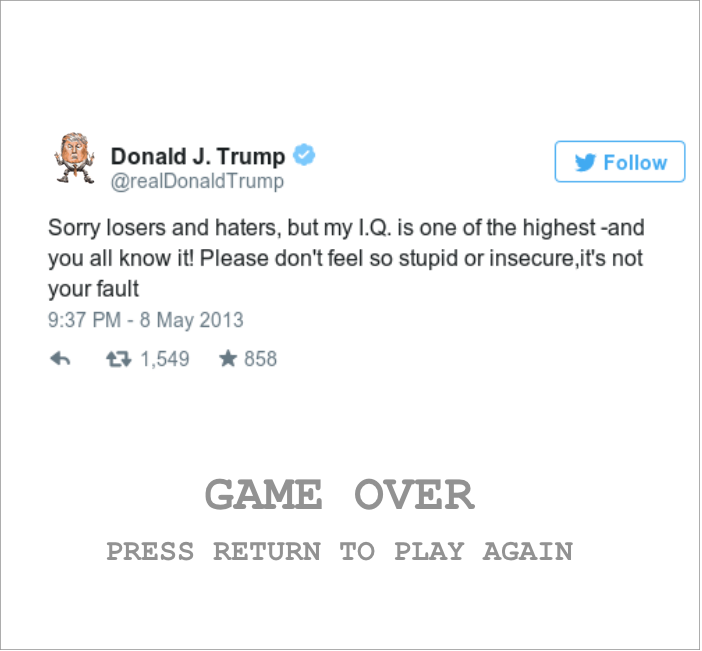
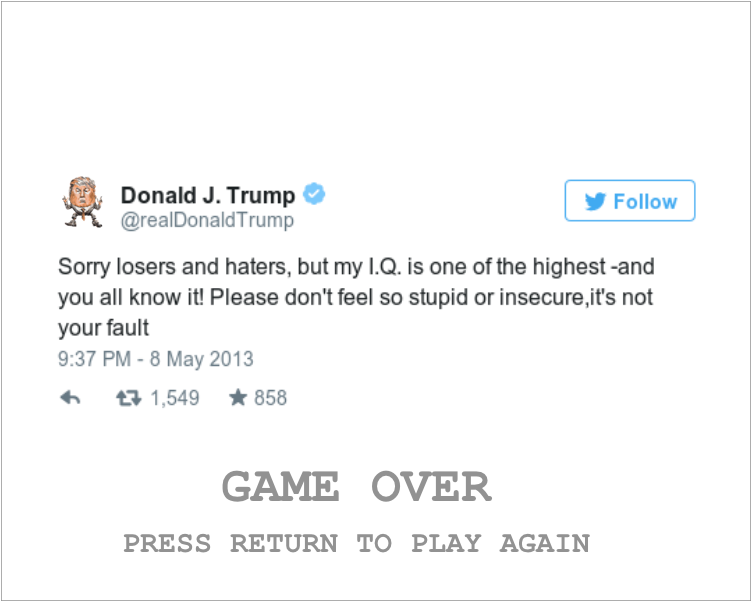
Add media query, css positioning, and new screens

Changed region(s): [[0.0, 0.0, 1.0, 1.0], [0.1496, 0.7164, 0.8376, 0.9254], [0.0598, 0.6567, 0.1197, 0.6866]]

diff --git a/style.css b/style.css
@@ -2,8 +2,7 @@ body{
   background-image: url('https://i.pinimg.com/originals/b9/e2/67/b9e26710f6423b8ac3c8116fc4b44d69.jpg');
   background-position: center;
   background-size: 100%;
-  padding: 5% 25%;
-
+  padding: 0 25%;
 }
 
 #game {
@@ -17,11 +16,10 @@ body{
 }
 
 #trumpty {
-
   height: 100px;
-  left: 42em;
-  top: 0;
-  position: absolute;
+  left: 20em;
+  top: 25px;
+  position: relative;
   z-index: 1;
 }
 
@@ -39,7 +37,7 @@ body{
   background-image: url('./img/game-screen.png');
   background-position: center;
   background-repeat: no-repeat;
-  background-size: 101%;
+  background-size: 100%;
   display: block;
   height: 600px;
   position: absolute;
@@ -90,8 +88,8 @@ body{
   width: 750px;
 }
 
-#directions-screen {
-  background-image: url('./img/directions.png');
+#pause-screen {
+  background-image: url('./img/pause-screen.png');
   background-position: center;
   background-repeat: no-repeat;
   background-size: 101%;
@@ -99,4 +97,11 @@ body{
   height: 600px;
   position: absolute;
   width: 750px;
+}
+
+@media screen and (min-width: 1500px) {
+  
+  body {
+      padding: 0 30%;
+  }
 }

diff --git a/lib/Game.js b/lib/Game.js
@@ -8,7 +8,7 @@ const startScreen = document.getElementById('start-screen');
 const level2Screen = document.getElementById('level2-screen');
 const level3Screen = document.getElementById('level3-screen');
 const winScreen = document.getElementById('win-screen');
-const directionsScreen = document.getElementById('directions-screen');
+const pauseScreen = document.getElementById('pause-screen');
 const trumpty = document.getElementById('trumpty');
 
 module.exports = class Game {
@@ -59,9 +59,9 @@ module.exports = class Game {
   pauseGame() {
     this.isPaused = !this.isPaused;
     if (this.isPaused) {
-      directionsScreen.style.display = 'block';
+      pauseScreen.style.display = 'block';
     } else {
-      directionsScreen.style.display = 'none';
+      pauseScreen.style.display = 'none';
     }
   }
 

diff --git a/index.html b/index.html
@@ -7,20 +7,13 @@
   <title>Game Time</title>
 </head>
 <body>
-<!--   <section class="instructions">
-    <h1>Spacebar: pause</h1>
-    <h1>Right Arrow: move right</h1>
-    <h1>Left Arrow: move left</h1>
-    <h1>Mouse: move left or right</h1>
-    <h1>Enter/Return: reset game</h1>
-  </section> -->
   <img id="trumpty" src="./img/trumpty.png">
   <div id="start-screen"></div>
   <div id="level2-screen"></div>
   <div id="level3-screen"></div>
   <div id="win-screen"></div>
   <div id="gameover-screen"></div>
-  <div id="directions-screen"></div>
+  <div id="pause-screen"></div>
   <canvas id="game" height="600" width="750"></canvas>
   <script src="main.bundle.js"></script>
 </body>
